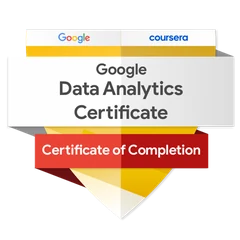
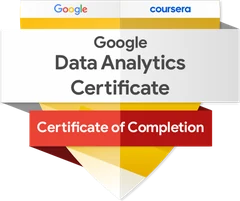
Certifications: no subtitle, smaller mobile cards, tighter spacing, trimmed Google badge
- Remove the section subtitle (Pause button stays right-aligned above the marquee)
- Below sm: 200px cards, 96px badges, 16px gaps, and a 5% edge fade (12% from sm up)
- Section padding py-10 md:py-14 so the gaps around it match the other sections
- Regenerate google-data-analytics.webp from the source PNG with its transparent
  padding cropped (240x201)

Claude-Session: https://claude.ai/code/session_01ErjzJoGG87AtndHbv6LLh9

diff --git a/artifacts/portfolio/src/components/Certifications.tsx b/artifacts/portfolio/src/components/Certifications.tsx
@@ -5,7 +5,7 @@ import { SectionHeading } from "./SectionHeading";
 
 // The marquee renders the list this many times and moves by one copy per loop.
 // Each copy must be at least as wide as the screen gap it has to fill: 4 copies of
-// 4 cards (~976px each) keep the track seamless on screens up to ~2900px wide.
+// 4 cards (~976px each, ~864px on phones) keep the track seamless on screens up to ~2900px wide.
 const MARQUEE_COPIES = 4;
 
 function CertCard({ cert, decorative = false }: { cert: CertificationData; decorative?: boolean }) {
@@ -19,10 +19,10 @@ function CertCard({ cert, decorative = false }: { cert: CertificationData; decor
           height={112}
           loading="lazy"
           decoding="async"
-          className="w-28 h-28 shrink-0 object-contain"
+          className="w-24 h-24 sm:w-28 sm:h-28 shrink-0 object-contain"
         />
       ) : (
-        <div className="w-28 h-28 shrink-0 rounded-xl bg-muted flex items-center justify-center">
+        <div className="w-24 h-24 sm:w-28 sm:h-28 shrink-0 rounded-xl bg-muted flex items-center justify-center">
           <FiAward size={40} className="text-muted-foreground" aria-hidden="true" />
         </div>
       )}
@@ -41,7 +41,7 @@ function CertCard({ cert, decorative = false }: { cert: CertificationData; decor
 
   // Same card style as the project cards: white, subtle border, soft shadow, rounded-3xl.
   const cardClass =
-    "flex flex-col items-center gap-3 w-[220px] shrink-0 py-6 px-5 bg-card rounded-3xl border border-border shadow-sm transition-shadow duration-300";
+    "flex flex-col items-center gap-3 w-[200px] sm:w-[220px] shrink-0 py-5 px-4 sm:py-6 sm:px-5 bg-card rounded-3xl border border-border shadow-sm transition-shadow duration-300";
 
   if (cert.credential_url) {
     return (
@@ -63,17 +63,13 @@ export default function Certifications({ data }: { data: CertificationData[] }) 
   const [paused, setPaused] = useState(false);
 
   return (
-    <section id="certifications" className="relative py-16 md:py-20 overflow-hidden bg-gradient-to-b from-slate-50 to-background">
+    <section id="certifications" className="relative py-10 md:py-14 overflow-hidden bg-gradient-to-b from-slate-50 to-background">
       {/* Soft brand-tinted glows; masked so they fade out before the section edges */}
       <div className="cert-tint pointer-events-none absolute inset-0" aria-hidden="true" />
 
       <div className="relative max-w-6xl mx-auto px-6">
-        <SectionHeading
-          title="Certifications & Credentials"
-          subtitle="Training in data analytics, Power BI, and AI. Click any card to verify."
-          subtitleClassName="text-slate-600"
-        />
-        <div className="-mt-6 md:-mt-8 mb-2 flex justify-end">
+        <SectionHeading title="Certifications & Credentials" />
+        <div className="-mt-4 md:-mt-8 mb-1 flex justify-end">
           <button
             type="button"
             onClick={() => setPaused((p) => !p)}
@@ -100,7 +96,7 @@ export default function Certifications({ data }: { data: CertificationData[] }) 
             <ul
               key={copy}
               aria-hidden={copy > 0 ? true : undefined}
-              className="flex shrink-0 gap-6 pr-6"
+              className="flex shrink-0 gap-4 pr-4 sm:gap-6 sm:pr-6"
             >
               {data.map((cert) => (
                 <li key={cert.id} className="flex">

diff --git a/artifacts/portfolio/src/index.css b/artifacts/portfolio/src/index.css
@@ -155,10 +155,17 @@
   mask-image: linear-gradient(to bottom, transparent, #000 25%, #000 75%, transparent);
 }
 
-/* Fade marquee cards out at the left/right edges into whatever background is behind them */
+/* Fade marquee cards out at the left/right edges into whatever background is behind them
+   (narrower on phones so the fade doesn't cover card text) */
 .marquee-fade {
-  -webkit-mask-image: linear-gradient(to right, transparent, #000 12%, #000 88%, transparent);
-  mask-image: linear-gradient(to right, transparent, #000 12%, #000 88%, transparent);
+  -webkit-mask-image: linear-gradient(to right, transparent, #000 5%, #000 95%, transparent);
+  mask-image: linear-gradient(to right, transparent, #000 5%, #000 95%, transparent);
+}
+@media (min-width: 40rem) {
+  .marquee-fade {
+    -webkit-mask-image: linear-gradient(to right, transparent, #000 12%, #000 88%, transparent);
+    mask-image: linear-gradient(to right, transparent, #000 12%, #000 88%, transparent);
+  }
 }
 
 /* Keep section headings clear of the sticky navbar when jumping to them */
